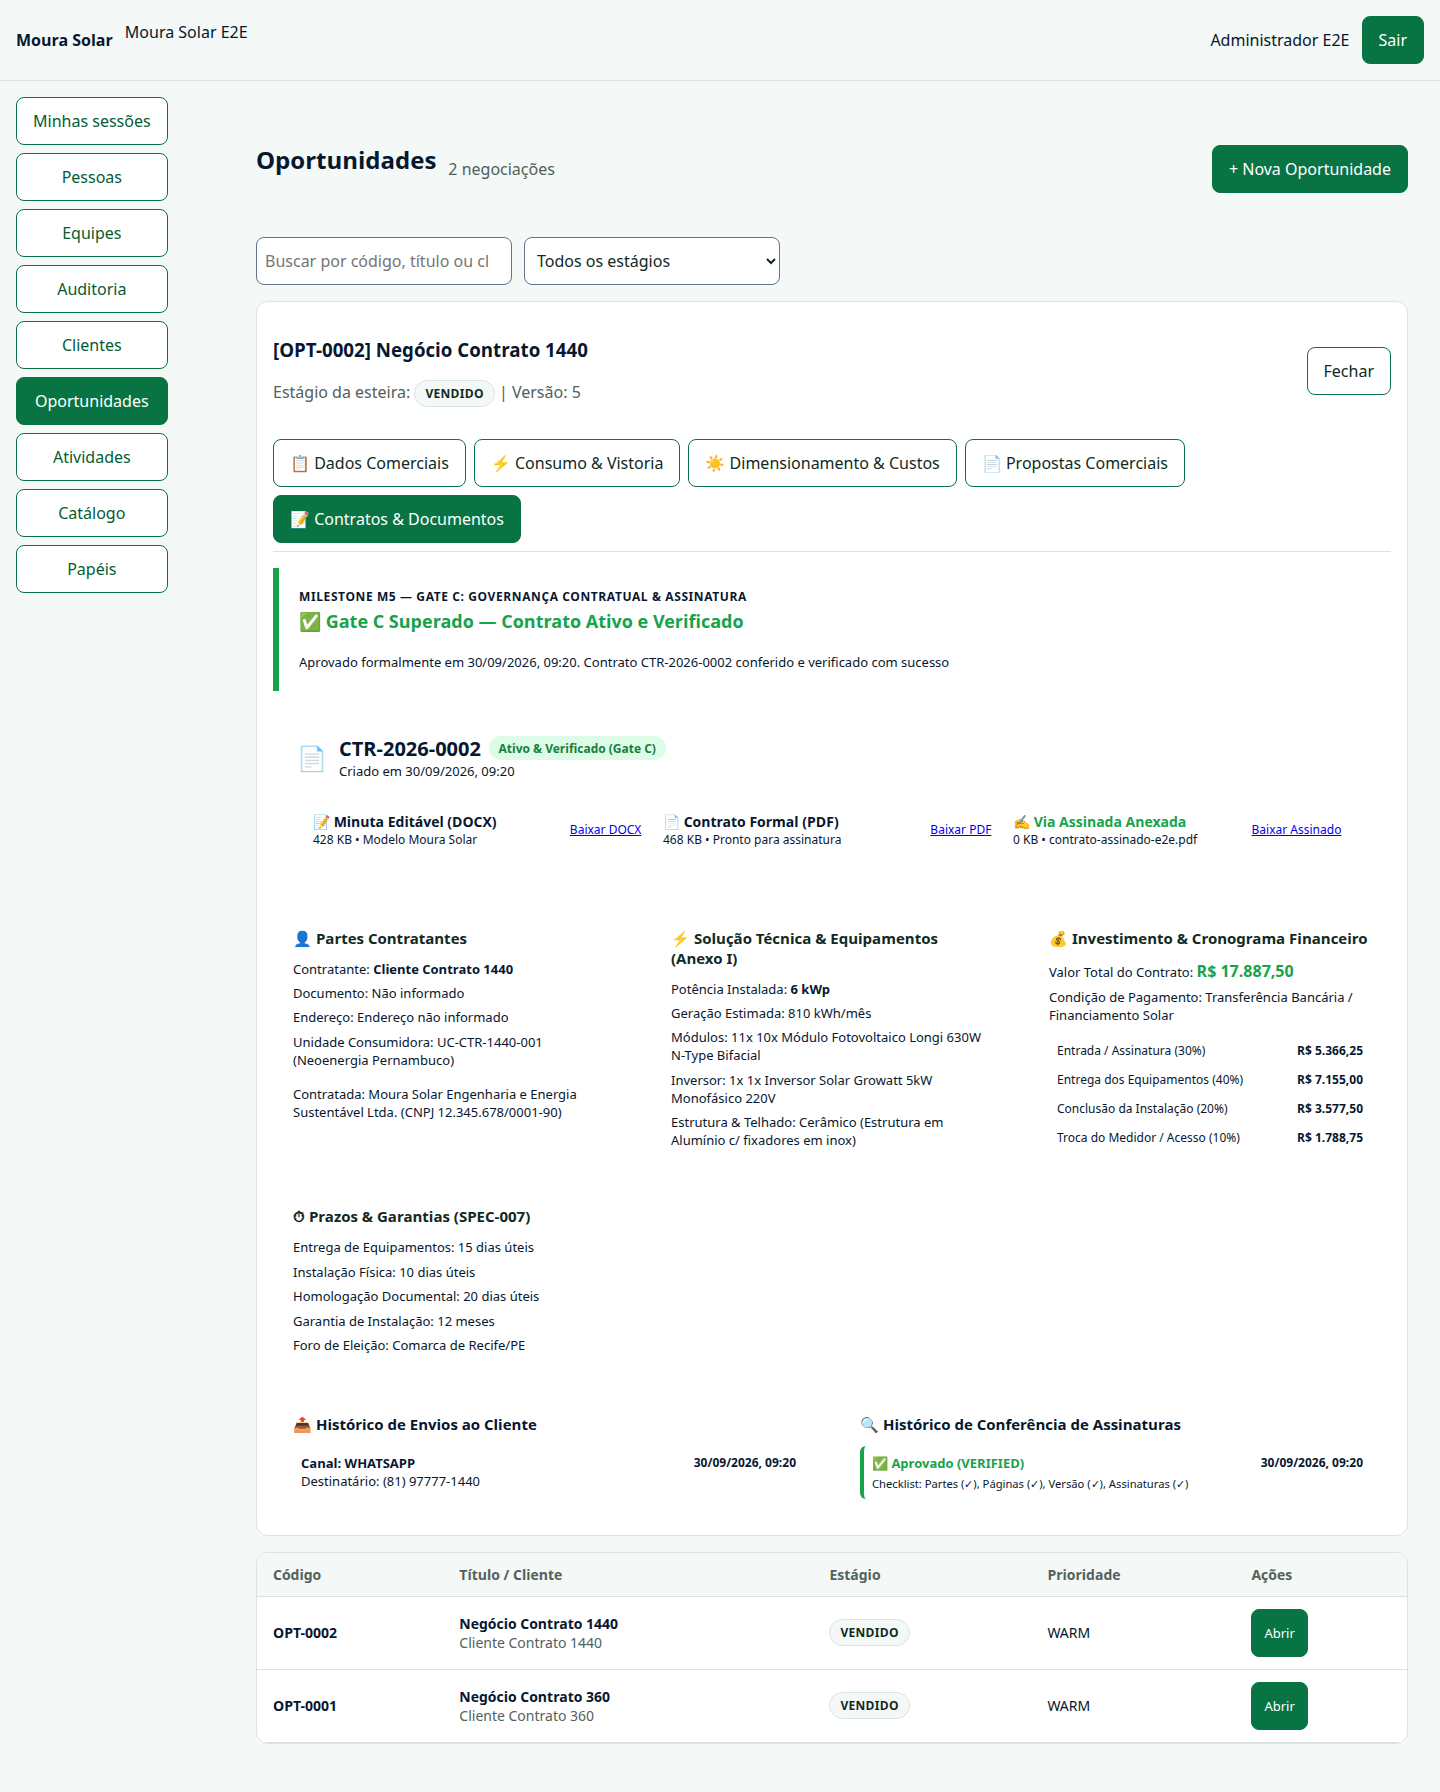
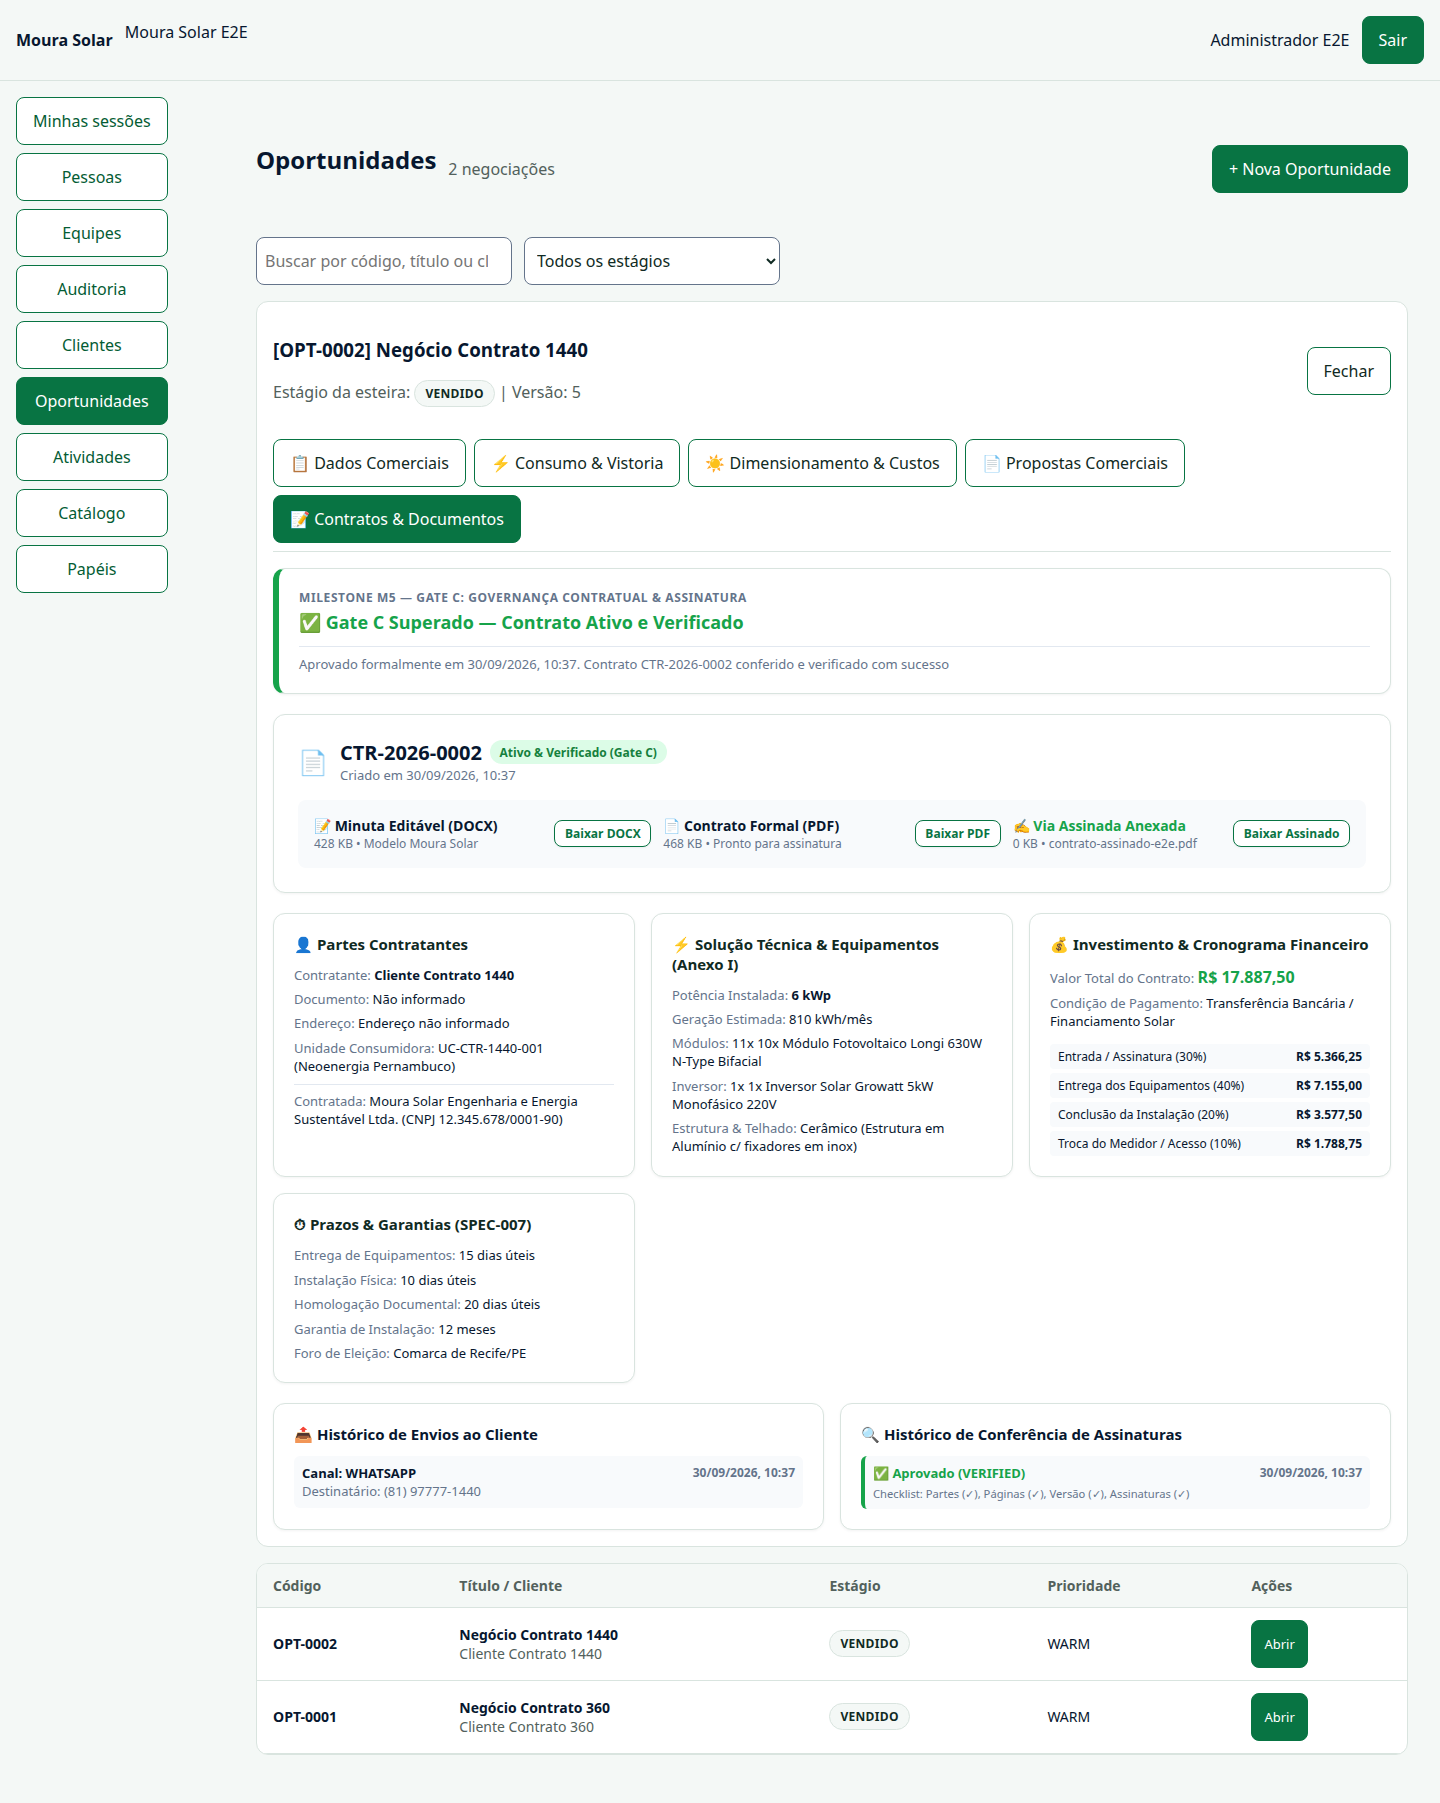
fix(ui): garantir visibilidade e alto contraste nos botoes de propostas e contratos

diff --git a/apps/web/src/features/proposal/proposals.tsx b/apps/web/src/features/proposal/proposals.tsx
@@ -898,12 +898,12 @@ export function Proposals({
                         {canSend && (isReady || isSent) && (
                           <button
                             type="button"
+                            className="btn btn--secondary"
                             style={{
-                              padding: '0.35rem 0.75rem',
+                              padding: '0.45rem 0.85rem',
                               fontSize: '0.8125rem',
-                              background: 'var(--color-surface)',
-                              color: 'var(--brand-primary)',
-                              borderColor: 'var(--brand-primary)',
+                              minHeight: 'auto',
+                              fontWeight: 600,
                             }}
                             onClick={() => {
                               setDeliveryVersionId(version.id);
@@ -918,12 +918,16 @@ export function Proposals({
                         {canAccept && isSent && (
                           <button
                             type="button"
+                            className="btn btn--success"
                             style={{
-                              padding: '0.35rem 0.75rem',
+                              padding: '0.45rem 0.85rem',
                               fontSize: '0.8125rem',
-                              background: 'var(--status-success)',
-                              color: '#fff',
-                              border: 'none',
+                              minHeight: 'auto',
+                              backgroundColor: '#15803d',
+                              color: '#ffffff',
+                              border: '1px solid #166534',
+                              fontWeight: 600,
+                              boxShadow: '0 1px 3px rgba(0, 0, 0, 0.12)',
                             }}
                             onClick={() => {
                               setAcceptVersionId(version.id);
@@ -938,12 +942,15 @@ export function Proposals({
                         {canReject && isSent && (
                           <button
                             type="button"
+                            className="btn btn--danger"
                             style={{
-                              padding: '0.35rem 0.75rem',
+                              padding: '0.45rem 0.85rem',
                               fontSize: '0.8125rem',
-                              background: 'var(--color-surface)',
-                              color: 'var(--status-danger)',
-                              borderColor: 'var(--status-danger)',
+                              minHeight: 'auto',
+                              backgroundColor: '#fee2e2',
+                              color: '#b91c1c',
+                              border: '1px solid #ef4444',
+                              fontWeight: 600,
                             }}
                             onClick={() => {
                               setRejectVersionId(version.id);
@@ -958,11 +965,12 @@ export function Proposals({
                         {canCreate && (
                           <button
                             type="button"
+                            className="btn btn--subtle"
                             style={{
-                              padding: '0.35rem 0.75rem',
+                              padding: '0.45rem 0.85rem',
                               fontSize: '0.8125rem',
-                              background: 'var(--color-surface)',
-                              color: 'var(--text-secondary)',
+                              minHeight: 'auto',
+                              fontWeight: 600,
                             }}
                             onClick={() => {
                               setNewVersionParentId(version.id);
@@ -1140,20 +1148,19 @@ export function Proposals({
                           >
                             <button
                               type="button"
-                              style={{
-                                background: 'var(--color-surface)',
-                                color: 'var(--text-primary)',
-                              }}
+                              className="btn btn--subtle"
                               onClick={() => setAcceptVersionId(null)}
                             >
                               Cancelar
                             </button>
                             <button
                               type="submit"
+                              className="btn btn--success"
                               style={{
-                                background: 'var(--status-success)',
-                                color: '#fff',
-                                border: 'none',
+                                background: '#15803d',
+                                color: '#ffffff',
+                                border: '1px solid #166534',
+                                fontWeight: 600,
                               }}
                               disabled={acceptMutation.isPending || !acceptedByName}
                             >
@@ -1222,20 +1229,19 @@ export function Proposals({
                           >
                             <button
                               type="button"
-                              style={{
-                                background: 'var(--color-surface)',
-                                color: 'var(--text-primary)',
-                              }}
+                              className="btn btn--subtle"
                               onClick={() => setRejectVersionId(null)}
                             >
                               Cancelar
                             </button>
                             <button
                               type="submit"
+                              className="btn btn--danger"
                               style={{
-                                background: 'var(--status-danger)',
-                                color: '#fff',
-                                border: 'none',
+                                background: '#b91c1c',
+                                color: '#ffffff',
+                                border: '1px solid #991b1b',
+                                fontWeight: 600,
                               }}
                               disabled={rejectMutation.isPending}
                             >

diff --git a/apps/web/src/app/styles.css b/apps/web/src/app/styles.css
@@ -2,6 +2,24 @@
   box-sizing: border-box;
 }
 
+:root {
+  --brand-primary: #087443;
+  --brand-primary-strong: #045c34;
+  --brand-primary-soft: #e2f3e9;
+  --text-primary: #102a23;
+  --text-secondary: #52615c;
+  --text-muted: #64748b;
+  --status-success: #15803d;
+  --status-success-bg: #dcfce7;
+  --status-success-strong: #166534;
+  --status-danger: #b91c1c;
+  --status-danger-bg: #fee2e2;
+  --status-warning: #b45309;
+  --status-warning-bg: #fef3c7;
+  --surface-sunken: #f8fafc;
+  --border-subtle: #e2e8f0;
+}
+
 html {
   background: var(--color-canvas);
   color: var(--color-ink-950);
@@ -615,3 +633,152 @@ label {
     display: block !important;
   }
 }
+
+/* Card System */
+.card {
+  border: 1px solid var(--color-border, #d9e4df);
+  border-radius: var(--radius-md, 0.75rem);
+  background: var(--color-surface, #ffffff);
+  box-shadow: 0 1px 3px 0 rgb(0 0 0 / 0.05);
+}
+
+/* Button Component System */
+.btn {
+  display: inline-flex;
+  align-items: center;
+  justify-content: center;
+  gap: 0.5rem;
+  font-family: inherit;
+  font-weight: 600;
+  font-size: 0.875rem;
+  line-height: 1.25;
+  padding: 0.5rem 1rem;
+  border-radius: var(--radius-sm, 0.5rem);
+  text-decoration: none;
+  cursor: pointer;
+  white-space: nowrap;
+  border: 1px solid transparent;
+  min-height: auto;
+  box-sizing: border-box;
+  transition: all 0.15s ease-in-out;
+}
+
+.btn:disabled,
+button:disabled {
+  opacity: 0.6;
+  cursor: not-allowed;
+  pointer-events: none;
+}
+
+.btn--primary {
+  background-color: var(--brand-primary, #087443);
+  color: #ffffff !important;
+  border-color: var(--brand-primary-strong, #045c34);
+  box-shadow: 0 1px 2px 0 rgb(0 0 0 / 0.08);
+}
+.btn--primary:hover:not(:disabled) {
+  background-color: var(--brand-primary-strong, #045c34);
+  color: #ffffff !important;
+  border-color: #034426;
+}
+
+.btn--secondary {
+  background-color: var(--color-surface, #ffffff);
+  color: var(--brand-primary, #087443) !important;
+  border: 1px solid var(--brand-primary, #087443);
+  box-shadow: 0 1px 2px 0 rgb(0 0 0 / 0.05);
+}
+.btn--secondary:hover:not(:disabled) {
+  background-color: var(--brand-primary-soft, #e2f3e9);
+  color: var(--brand-primary-strong, #045c34) !important;
+  border-color: var(--brand-primary-strong, #045c34);
+}
+
+.btn--subtle {
+  background-color: #f1f5f9;
+  color: #1e293b !important;
+  border: 1px solid #cbd5e1;
+  box-shadow: 0 1px 2px 0 rgb(0 0 0 / 0.05);
+}
+.btn--subtle:hover:not(:disabled) {
+  background-color: #e2e8f0;
+  color: #0f172a !important;
+  border-color: #94a3b8;
+}
+
+.btn--danger {
+  background-color: var(--status-danger, #b91c1c);
+  color: #ffffff !important;
+  border: 1px solid #991b1b;
+  box-shadow: 0 1px 2px 0 rgb(0 0 0 / 0.08);
+}
+.btn--danger:hover:not(:disabled) {
+  background-color: #991b1b;
+  color: #ffffff !important;
+  border-color: #7f1d1d;
+}
+
+.btn--success {
+  background-color: var(--status-success, #15803d);
+  color: #ffffff !important;
+  border: 1px solid var(--status-success-strong, #166534);
+  box-shadow: 0 1px 2px 0 rgb(0 0 0 / 0.08);
+}
+.btn--success:hover:not(:disabled) {
+  background-color: var(--status-success-strong, #166534);
+  color: #ffffff !important;
+  border-color: #14532d;
+}
+
+/* Modal System */
+.modal-backdrop {
+  position: fixed;
+  inset: 0;
+  background-color: rgba(15, 23, 42, 0.65);
+  backdrop-filter: blur(2px);
+  display: flex;
+  align-items: center;
+  justify-content: center;
+  z-index: 1000;
+  padding: 1rem;
+  overflow-y: auto;
+}
+
+.modal-card {
+  background: var(--color-surface, #ffffff);
+  border: 1px solid var(--color-border, #d9e4df);
+  border-radius: var(--radius-lg, 1rem);
+  box-shadow: 0 20px 25px -5px rgb(0 0 0 / 0.15), 0 8px 10px -6px rgb(0 0 0 / 0.1);
+  padding: 1.5rem;
+  position: relative;
+  max-height: calc(100vh - 2rem);
+  overflow-y: auto;
+  color: var(--text-primary, #102a23);
+}
+
+/* Form Helper Classes */
+.form-label {
+  font-size: 0.875rem;
+  font-weight: 600;
+  color: var(--text-primary, #102a23);
+  margin-bottom: 0.25rem;
+}
+
+.form-input {
+  width: 100%;
+  padding: 0.5rem 0.75rem;
+  font-size: 0.875rem;
+  border: 1px solid #cbd5e1;
+  border-radius: var(--radius-sm, 0.5rem);
+  background: var(--color-surface, #ffffff);
+  color: var(--text-primary, #102a23);
+  outline: none;
+  min-height: auto;
+  transition: border-color 0.15s ease, box-shadow 0.15s ease;
+}
+
+.form-input:focus {
+  border-color: var(--brand-primary, #087443);
+  box-shadow: 0 0 0 2px var(--brand-primary-soft, #e2f3e9);
+}
+

diff --git a/apps/web/src/features/contract/contracts.tsx b/apps/web/src/features/contract/contracts.tsx
@@ -543,7 +543,7 @@ export function ContractsView({ opportunityId, onRefresh, readonly = false }: Co
                   canSend && (
                     <button
                       type="button"
-                      className="btn btn--subtle"
+                      className="btn btn--secondary"
                       onClick={() => setIsDelivering(true)}
                     >
                       📤 Registrar Envio
@@ -557,7 +557,7 @@ export function ContractsView({ opportunityId, onRefresh, readonly = false }: Co
                   canUpload && (
                     <button
                       type="button"
-                      className="btn btn--subtle"
+                      className="btn btn--secondary"
                       onClick={() => setIsUploading(true)}
                     >
                       📥 Anexar Via Assinada

diff --git a/packages/design-tokens/tokens.css b/packages/design-tokens/tokens.css
@@ -25,6 +25,15 @@
   --text-primary: #102a23;
   --text-secondary: #52615c;
   --status-danger: #b91c1c;
+  --status-danger-bg: #fee2e2;
+  --status-success: #15803d;
+  --status-success-bg: #dcfce7;
+  --status-success-strong: #166534;
+  --status-warning: #b45309;
+  --status-warning-bg: #fef3c7;
+  --text-muted: #64748b;
+  --surface-sunken: #f8fafc;
+  --border-subtle: #e2e8f0;
   --space-1: 0.25rem;
   --space-2: 0.5rem;
   --space-3: 0.75rem;
